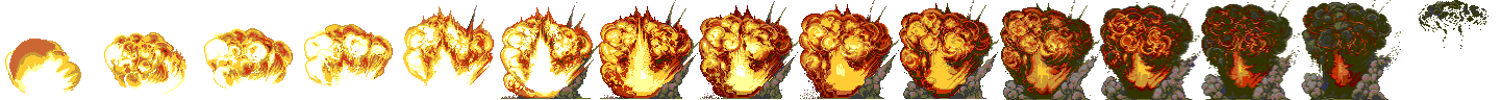
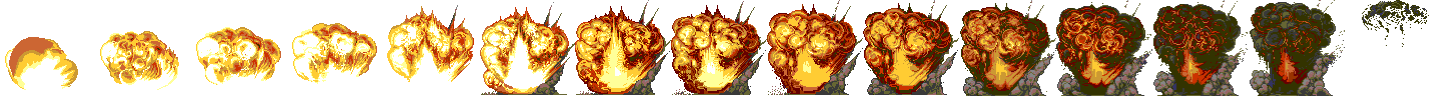
je suis rendu dans cWorms pour
affecter les explosion

diff --git a/TP_Codename_WORMS/TP_Codename_WORMS/CWorms.h b/TP_Codename_WORMS/TP_Codename_WORMS/CWorms.h
@@ -19,6 +19,7 @@
 #include "CSlideShow.h"
 #include "CMenu.h"
 #include "CPosition.h"
+#include "CMap.h"
 #include "CTrajectory.h"
 #include "CExplosion.h"
 #include "CPhysic.h"
@@ -32,7 +33,7 @@
 #include "CCaisseSoin.h"
 
 #include "CTeam.h"
-#include "CMap.h"
+
 #include "CBoussole.h"
 #include "CPowerBar.h"
 #include "CBazouka.h"
@@ -60,6 +61,8 @@ private:
 	static CMap* TabMap[5];
 	static fstream* m_SaveFile;
 	static int m_LastMapUsed;
+	static CExplosion* Explosion_Bazooka_Mines;
+	static CExplosion* Explosion_Grenades_Caisses_Worms;
 public:
 
 	static void Start(){
@@ -211,10 +214,13 @@ public:
 		m_Gestionaire->AjouterSurface(new CSurface("explosionmask", IMG_Load(strFilePath[22].c_str())));
 		m_Gestionaire->AjouterTexture(new CTexture("explosion1", IMG_LoadTexture(m_pWindow->getRenderer(), strFilePath[23].c_str())));
 
+
+		/*Explosions*/
+		//m_Gestionaire->AjouterSprite(new CSprite("SpriteExBaz",))
+
 		m_SaveFile->open(strFilePath[12].c_str());
 		
 
-		CExplosion::setExplosionMask(m_Gestionaire->GetSurface("explosionmask")->getSurface());
 }
 
 	static void LoadData(){
@@ -292,7 +298,6 @@ public:
 		m_pEvent = new SDL_Event();
 		m_Gestionaire = new CGestionnaireRessources();
 		LoadResources(_argv);
-
 		LoadData();
 
 		//
@@ -305,6 +310,7 @@ public:
 		m_MenuPrincipal->getElement("btnQuit")->OnClickAction = BtnQuit;
 		m_MenuPrincipal->getElement("btnNewGame")->OnClickAction = BtnNewGame;
 		m_MenuPrincipal->ActivateMenu();
+
 		//
 		// Initialisation du menu NewGame
 		//
@@ -334,7 +340,6 @@ public:
 		//
 		// Initialisation du menu Pause
 		//
-
 		m_MenuPause->AddElement(new CButton("btnResume", "Resume", m_Gestionaire->GetFont("FontMenu"), { 0, 0, 10, 10 }, m_Gestionaire->GetSprite("SpriteBtnResume")), 20, 50, 162, 33);
 		m_MenuPause->AddElement(new CButton("btnRestart", "Restart", m_Gestionaire->GetFont("FontMenu"), { 0, 0, 10, 10 }, m_Gestionaire->GetSprite("SpriteBtnRestart")), 20, 100, 162, 33);
 		m_MenuPause->AddElement(new CButton("btnMainMenu", "Main Menu", m_Gestionaire->GetFont("FontMenu"), { 0, 0, 10, 10 }, m_Gestionaire->GetSprite("SpriteBtnMainMenu")), 20, 225, 162, 33);
@@ -344,6 +349,10 @@ public:
 		m_MenuPause->getElement("btnQuitDskt")->OnClickAction = BtnQuit;
 		m_MenuPause->getElement("btnResume")->OnClickAction = BtnResume;
 
+		//
+		//Initialisation des explosions
+		//
+		Explosion_Bazooka_Mines = new CExplosion(,50)
 	}
 
 	//
@@ -414,7 +423,8 @@ public:
 };
 
 // Initialisation des données membre statique
-
+CExplosion* CWorms::Explosion_Bazooka_Mines = nullptr;
+CExplosion* CWorms::Explosion_Grenades_Caisses_Worms = nullptr;
 CWindow* CWorms::m_pWindow = nullptr;
 CMenu* CWorms::m_MenuPrincipal = nullptr;
 CMenu* CWorms::m_MenuNewGame = nullptr;

diff --git a/TP_Codename_WORMS/TP_Codename_WORMS/CGame.h b/TP_Codename_WORMS/TP_Codename_WORMS/CGame.h
@@ -63,8 +63,8 @@ public:
 		DropperTimer->Start();
 		ActiveWorm = nullptr;
 		Jetpack = nullptr;
-		m_Gestionaire->AjouterSprite(new CSprite("explosion1", m_Gestionaire->GetTexture("explosion1")->GetTexture(), 15, 1, 100, 1));
-		m_explode = new CExplosion(m_Gestionaire->GetSprite("explosion1"),0);
+		m_Gestionaire->AjouterSprite(new CSprite("explosion1", m_Gestionaire->GetTexture("explosion1")->GetTexture(), 15, 1, 50, 1));
+		m_explode = new CExplosion(m_Gestionaire->GetSprite("explosion1"),50, m_pMap);
 		boEx = false;
 	}
 	
@@ -136,7 +136,7 @@ public:
 		if (m_explode->IsDone()){ boEx = false; }
 		if (boEx && !m_explode->IsDone()){
 			m_explode->startExplosion();
-			m_explode->Draw(m_pRenderer,m_pMap->getMap());
+			m_explode->Draw(m_pRenderer);
 		}
 	
 	}
